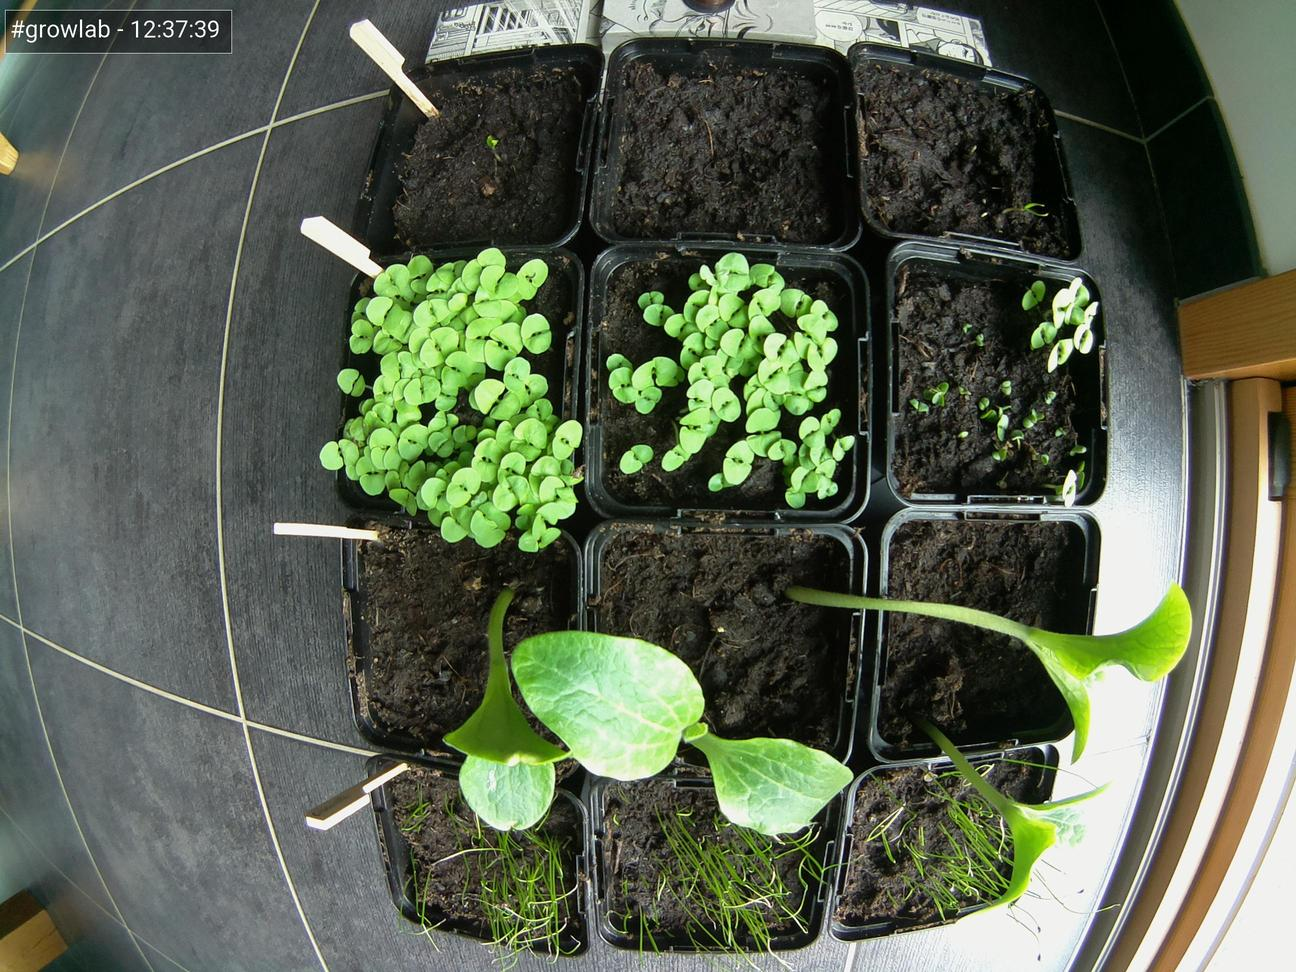
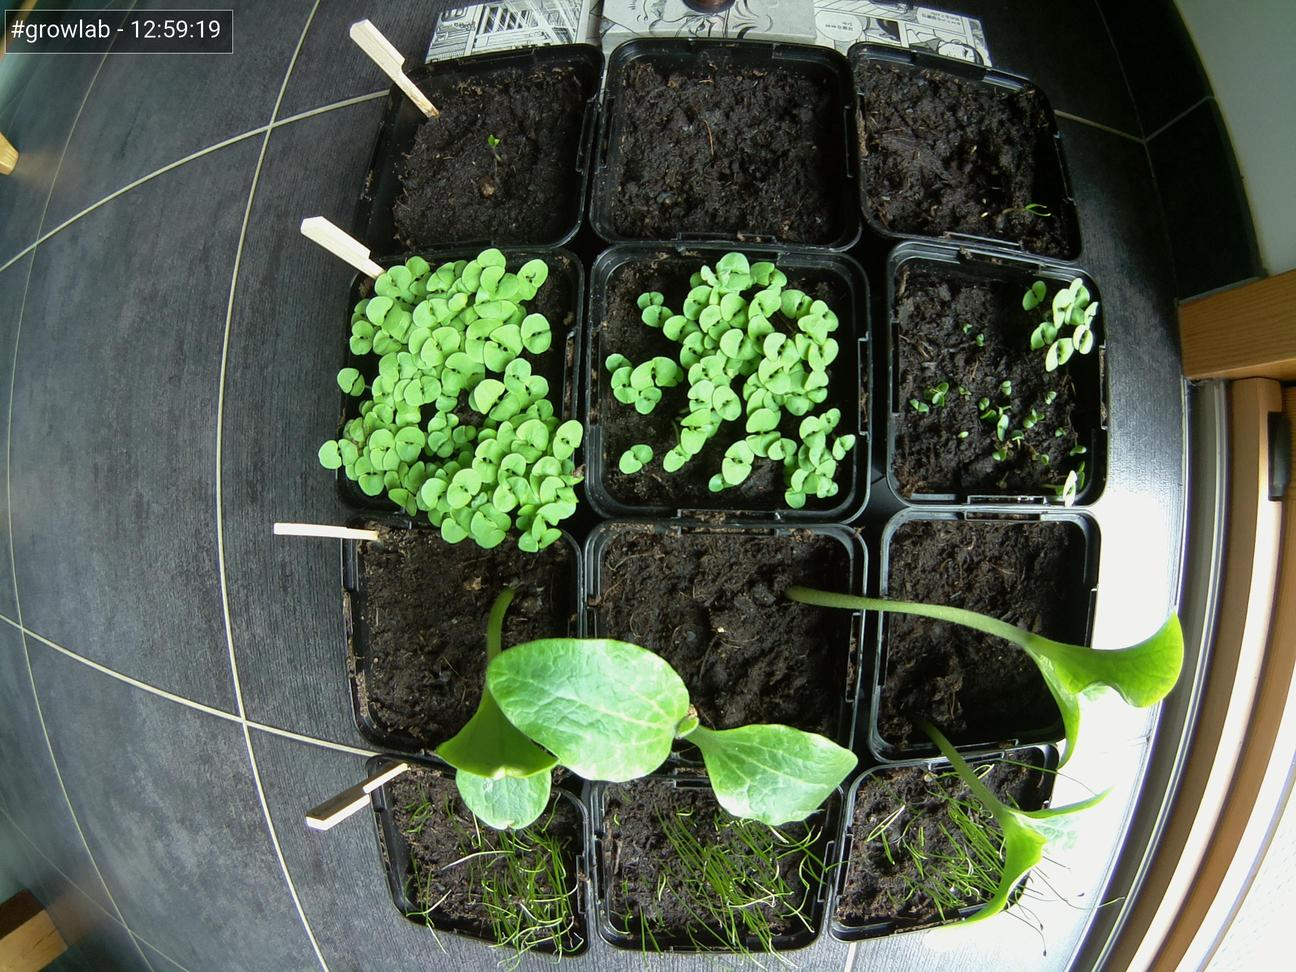
Update images at Thu 27 May 13:01:23 CEST 2021

diff --git a/index.html b/index.html
@@ -47,7 +47,7 @@
                         <tbody>
                             <tr>
                                 <td>Time</td>
-                                <td>12:37:39</td>
+                                <td>12:59:19</td>
                             </tr>
                             <tr>
                                 <td>Temperature</td>
@@ -67,7 +67,7 @@
 
                 <h5>Latest image</h5>
                 <div style="width: 85%;">
-                            <img class="figure-img img-fluid rounded" src="./preview.jpg?uid=1622111868.362304">
+                            <img class="figure-img img-fluid rounded" src="./preview.jpg?uid=1622113167.6534958">
                 </div>
             </div>
         </div>
